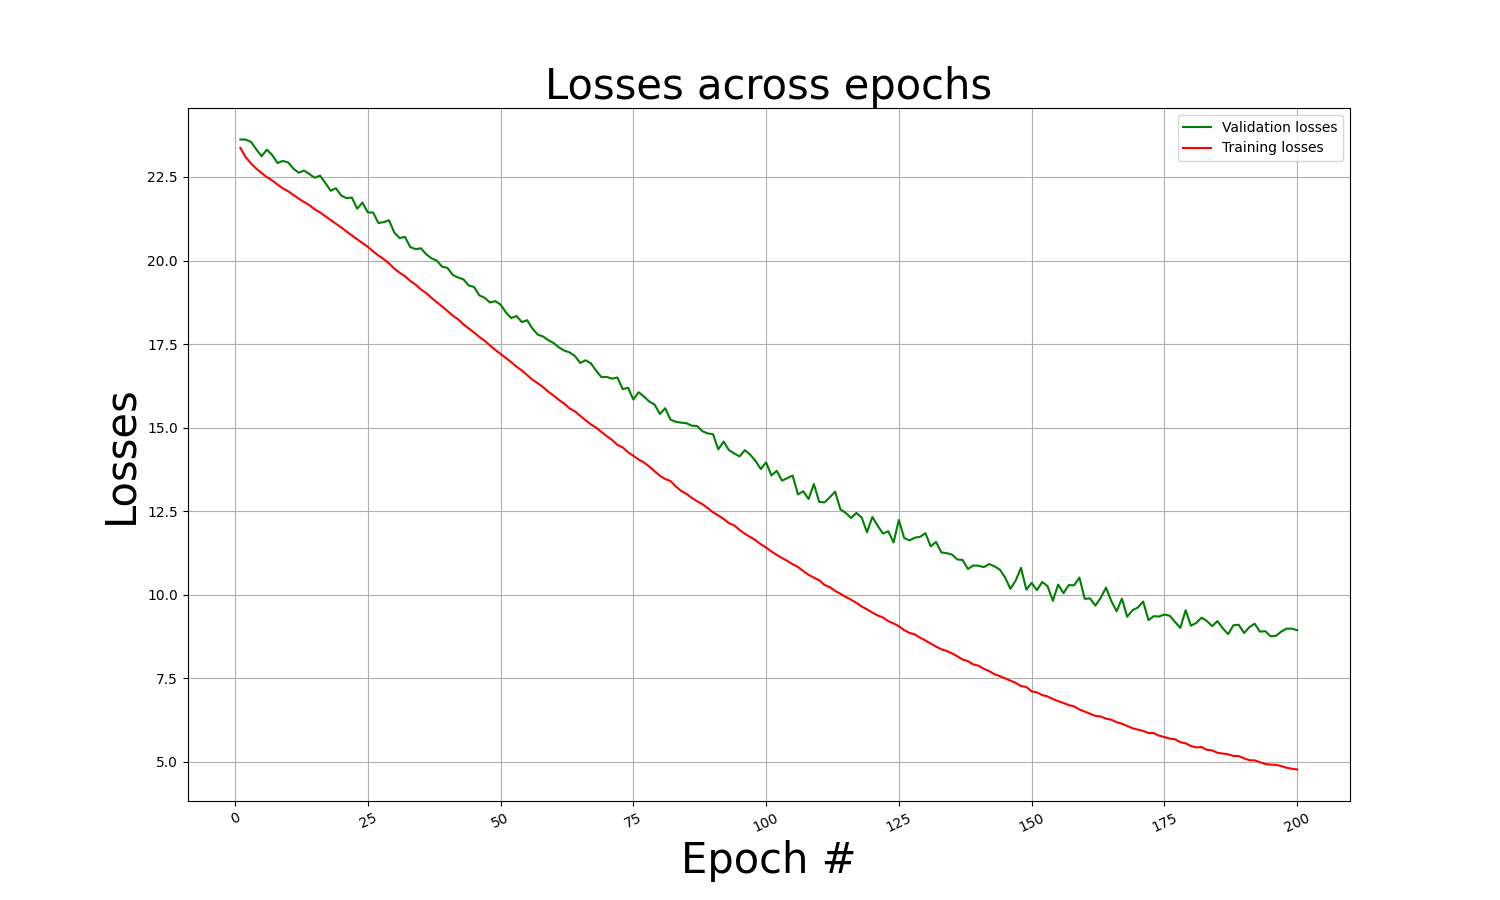
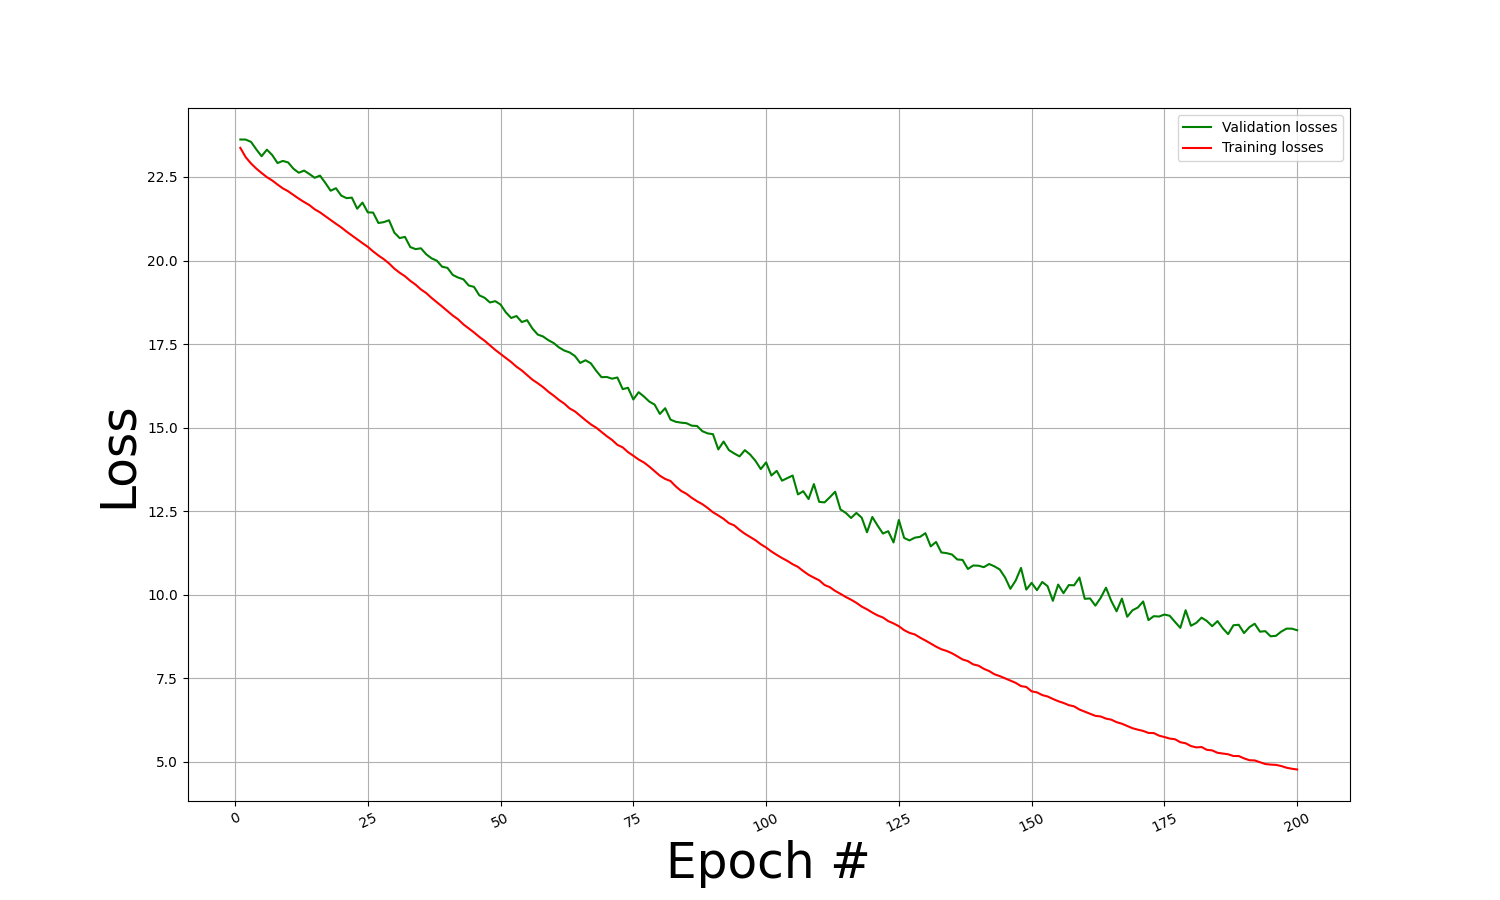
Catching up

Changed region(s): [[0.368, 0.0622, 0.6747, 0.1244], [0.4293, 0.9333, 0.5827, 0.9956], [0.0613, 0.4356, 0.092, 0.5911]]

diff --git a/scripts/multi_agent_src/plot_losses.py b/scripts/multi_agent_src/plot_losses.py
@@ -32,10 +32,10 @@ plt.plot(epoch_num, val_losses, color = 'g', linestyle="solid",
          label = "Validation losses")
 plt.plot(epoch_num, train_losses, color = 'r', linestyle="solid",
          label = "Training losses")
-plt.xticks(rotation = 25)
-plt.xlabel('Epoch #', fontsize=30)
-plt.ylabel('Losses', fontsize=30)
-plt.title('Losses across epochs', fontsize = 30)
+plt.xticks(rotation = 25, fontsize=20)
+plt.yticks(fontsize=20)
+plt.xlabel('Epoch #', fontsize=35)
+plt.ylabel('Loss', fontsize=35)
 plt.grid()
-plt.legend()
-plt.savefig("losses_plot.png")
+plt.legend(fontsize = 25)
+plt.savefig("losses_plot.pdf", bbox_inches="tight")
